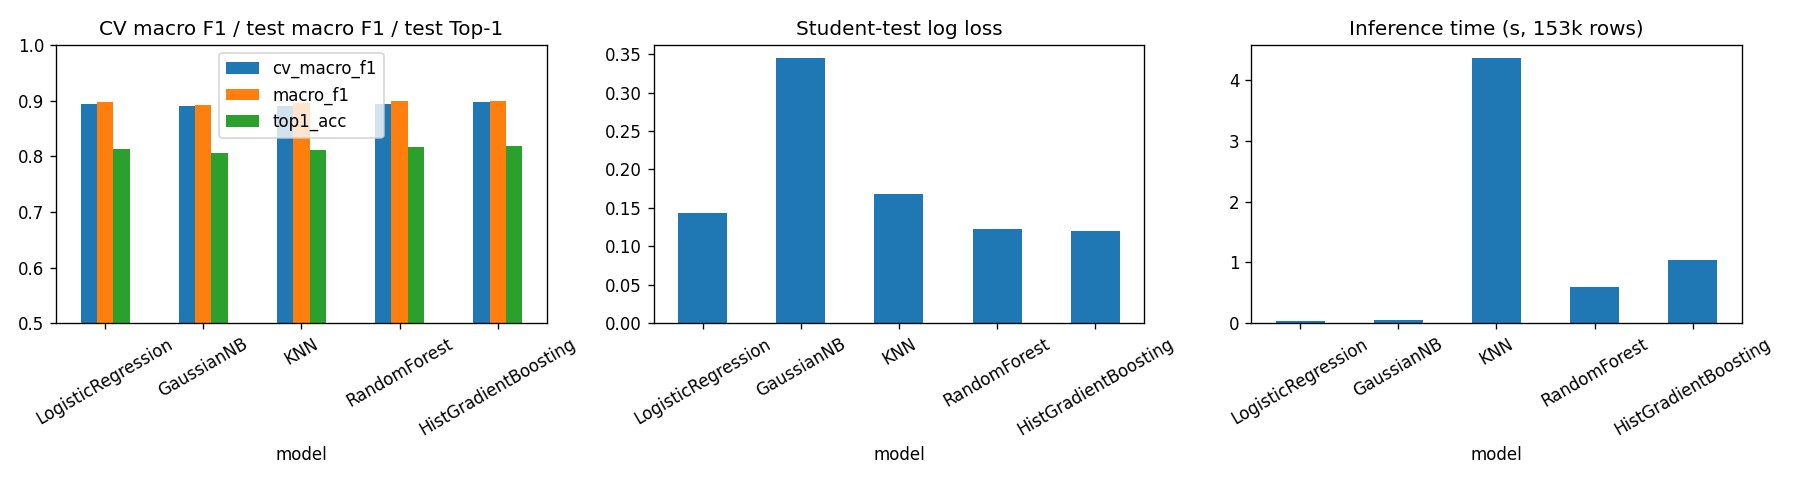
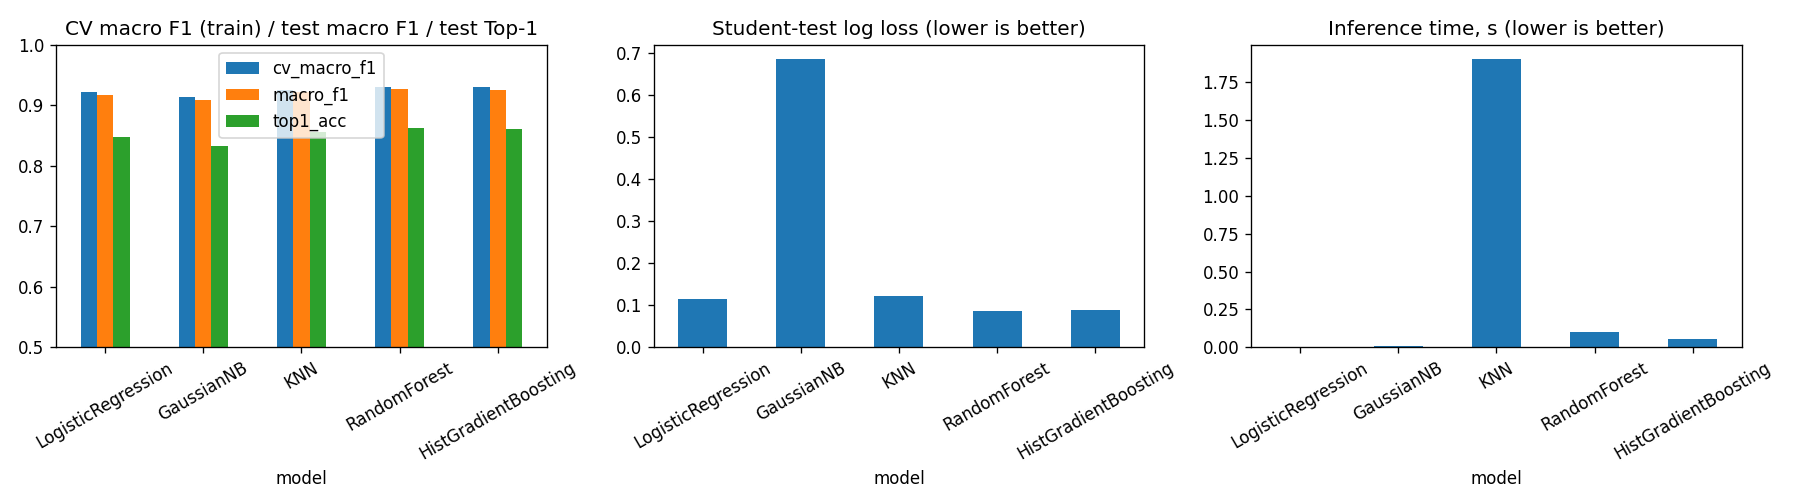
Add Phase 2 model runner and evaluator UI

diff --git a/modelling/train_compare.py b/modelling/train_compare.py
@@ -1,6 +1,6 @@
 """Train 5 models, 3-fold GroupKFold CV on train, evaluate on student_test.
 Output: experiments/model_comparison.csv, experiments/model_comparison.png
-Run: .venv/bin/python modelling/train_compare.py
+Run on its own: .venv/bin/python modelling/train_compare.py   (run_models.py calls these functions)
 """
 import os, sys, time, json
 import pandas as pd
@@ -15,40 +15,59 @@ from sklearn.neighbors import KNeighborsClassifier
 from sklearn.ensemble import RandomForestClassifier, HistGradientBoostingClassifier
 
 sys.path.insert(0, os.path.dirname(os.path.abspath(__file__)))
-from common import ROOT, FEATURES, SEED, load, evaluate, cv_macro_f1
+from common import ROOT, FEATURES, SEED, TRAIN_POINT_STRIDE, load, evaluate, cv_macro_f1
 
 # scaler sits inside the pipeline, so it is fit on training folds only
 MODELS = {
-    "LogisticRegression": ("linear", lambda: make_pipeline(StandardScaler(), LogisticRegression(max_iter=500))),
-    "GaussianNB": ("probabilistic", lambda: make_pipeline(StandardScaler(), GaussianNB())),
-    "KNN": ("instance-based", lambda: make_pipeline(StandardScaler(), KNeighborsClassifier(n_neighbors=25, weights="distance", n_jobs=-1))),
-    "RandomForest": ("bagging ensemble", lambda: RandomForestClassifier(n_estimators=100, min_samples_leaf=5, n_jobs=-1, random_state=SEED)),
-    "HistGradientBoosting": ("boosting", lambda: HistGradientBoostingClassifier(random_state=SEED)),
+    "LogisticRegression": ("linear", "C=1.0, max_iter=500, scaled",
+                           lambda: make_pipeline(StandardScaler(), LogisticRegression(max_iter=500))),
+    "GaussianNB": ("probabilistic", "defaults, scaled",
+                   lambda: make_pipeline(StandardScaler(), GaussianNB())),
+    "KNN": ("instance-based", "k=25, distance-weighted, scaled",
+            lambda: make_pipeline(StandardScaler(), KNeighborsClassifier(n_neighbors=25, weights="distance", n_jobs=-1))),
+    "RandomForest": ("bagging ensemble", "100 trees, min_samples_leaf=5",
+                     lambda: RandomForestClassifier(n_estimators=100, min_samples_leaf=5, n_jobs=-1, random_state=SEED)),
+    "HistGradientBoosting": ("boosting", "sklearn defaults",
+                             lambda: HistGradientBoostingClassifier(random_state=SEED)),
 }
+
+
+def run_one(name, train, test):
+    family, config, make = MODELS[name]
+    cv_mean, cv_std = cv_macro_f1(make, train)
+    t0 = time.time()
+    model = make().fit(train[FEATURES], train.y)
+    train_s = time.time() - t0
+    return {"model": name, "family": family, "config": config,
+            "cv_macro_f1": cv_mean, "cv_macro_f1_std": cv_std, "train_s": train_s, **evaluate(model, test)}
+
+
+def save(rows):
+    df = pd.DataFrame(rows)
+    out = os.path.join(ROOT, "experiments")
+    os.makedirs(out, exist_ok=True)
+    df.to_csv(os.path.join(out, "model_comparison.csv"), index=False)
+    json.dump({"seed": SEED, "features": FEATURES, "cv": "GroupKFold(3) by trip", "train_point_stride": TRAIN_POINT_STRIDE},
+              open(os.path.join(out, "model_comparison_config.json"), "w"), indent=2)
+
+    fig, axes = plt.subplots(1, 3, figsize=(15, 4.2))
+    df.plot.bar(x="model", y=["cv_macro_f1", "macro_f1", "top1_acc"], ax=axes[0], ylim=(0.5, 1), rot=30,
+                title="CV macro F1 (train) / test macro F1 / test Top-1")
+    df.plot.bar(x="model", y="log_loss", ax=axes[1], rot=30, title="Student-test log loss (lower is better)", legend=False)
+    df.plot.bar(x="model", y="inference_s", ax=axes[2], rot=30, title="Inference time, s (lower is better)", legend=False)
+    plt.tight_layout()
+    plt.savefig(os.path.join(out, "model_comparison.png"), dpi=120)
+    plt.close()
+    return df
+
 
 if __name__ == "__main__":
     train, test = load("train"), load("student_test")
     print("train rows", len(train), "test rows", len(test))
     rows = []
-    for name, (family, make) in MODELS.items():
-        cv_mean, cv_std = cv_macro_f1(make, train)
-        t0 = time.time()
-        model = make().fit(train[FEATURES], train.y)
-        train_s = time.time() - t0
-        res = {"model": name, "family": family, "config": str(model.get_params() if name != "LogisticRegression" else "C=1.0, max_iter=500")[:120],
-               "cv_macro_f1": cv_mean, "cv_macro_f1_std": cv_std, "train_s": train_s, **evaluate(model, test)}
+    for name in MODELS:
+        res = run_one(name, train, test)
         rows.append(res)
         print({k: (round(v, 4) if isinstance(v, float) else v) for k, v in res.items() if k != "config"})
-    df = pd.DataFrame(rows)
-    out = os.path.join(ROOT, "experiments")
-    df.to_csv(os.path.join(out, "model_comparison.csv"), index=False)
-    json.dump({"seed": SEED, "features": FEATURES, "cv": "GroupKFold(3) by trip", "train_point_stride": 4}, open(os.path.join(out, "model_comparison_config.json"), "w"), indent=2)
-
-    fig, axes = plt.subplots(1, 3, figsize=(15, 4))
-    df.plot.bar(x="model", y=["cv_macro_f1", "macro_f1", "top1_acc"], ax=axes[0], ylim=(0.5, 1), rot=30,
-                title="CV macro F1 / test macro F1 / test Top-1")
-    df.plot.bar(x="model", y="log_loss", ax=axes[1], rot=30, title="Student-test log loss", legend=False)
-    df.plot.bar(x="model", y="inference_s", ax=axes[2], rot=30, title="Inference time (s, 153k rows)", legend=False)
-    plt.tight_layout()
-    plt.savefig(os.path.join(out, "model_comparison.png"), dpi=120)
+    save(rows)
     print("saved experiments/model_comparison.csv and .png")

diff --git a/run_models.py b/run_models.py
@@ -1,0 +1,99 @@
+"""PART 2 - MODELS: train and compare 5 models, choose one, tune it with Optuna.
+
+Run:  .venv/bin/python run_models.py            (about 2-3 min)
+      .venv/bin/python run_models.py --trials 5  (quicker tuning for a live demo)
+Needs run_data.py to have been run first (it builds data/processed/).
+"""
+import warnings
+# Hide harmless library warnings so the demo output stays readable:
+# - urllib3 complains about the macOS system SSL library (no effect on us)
+# - numpy 2.0 + Apple's maths library print false "overflow in matmul" warnings
+#   during Logistic Regression; the scores are unaffected (checked against Linux runs)
+warnings.filterwarnings("ignore", message=".*urllib3 v2 only supports OpenSSL.*")
+warnings.filterwarnings("ignore", category=RuntimeWarning, message=".*encountered in matmul.*")
+
+import os, sys, argparse
+import pandas as pd
+
+ROOT = os.path.dirname(os.path.abspath(__file__))
+sys.path.insert(0, ROOT)
+sys.path.insert(0, os.path.join(ROOT, "modelling"))
+sys.path.insert(0, os.path.join(ROOT, "tuning"))
+from src.pretty import banner, step, note, table, Timer
+from common import FEATURES, TRAIN_POINT_STRIDE, load, nearest_road_top1
+from train_compare import MODELS, run_one, save
+from tune_optuna import run_search, compare, confusion
+from eda.extra_plots import plot_optuna
+
+ap = argparse.ArgumentParser()
+ap.add_argument("--trials", type=int, default=15, help="number of Optuna trials")
+args = ap.parse_args()
+
+banner("PATHSNAP  |  PART 2: MODEL TRAINING, SELECTION AND TUNING")
+
+# ---------------------------------------------------------------------------
+step(1, "Load the feature tables built in Part 1")
+train, test = load("train"), load("student_test")
+note(f"train       : {train.trip.nunique()} trips, {len(train):,} candidate rows (every {TRAIN_POINT_STRIDE}th GPS point)")
+note(f"student_test: {test.trip.nunique()} trips, {len(test):,} candidate rows (every GPS point)")
+note(f"features    : {', '.join(FEATURES)}")
+note("validation  : 3-fold GroupKFold by trip on train (no trip is in two folds)")
+
+# ---------------------------------------------------------------------------
+step(2, "Baseline with no learning: always pick the nearest road")
+base = nearest_road_top1(test)
+note(f"student_test Top-1 = {base:.4f}  ({100 * base:.1f}% of GPS points matched correctly)")
+
+# ---------------------------------------------------------------------------
+step(3, "Train and compare 5 models from different families")
+rows = []
+for name in MODELS:
+    with Timer(f"{name}") as tm:
+        r = run_one(name, train, test)
+    rows.append(r)
+    note(f"   CV macro F1 {r['cv_macro_f1']:.4f}  |  test Top-1 {r['top1_acc']:.4f}  |  log loss {r['log_loss']:.4f}")
+df = save(rows)
+show = df[["model", "family", "cv_macro_f1", "cv_macro_f1_std", "top1_acc", "macro_f1", "macro_precision",
+           "macro_recall", "log_loss", "route_continuity", "train_s", "inference_s"]]
+print()
+table(show)
+
+# ---------------------------------------------------------------------------
+step(4, "Choose the model (on CV macro F1 from train trips, never on test)")
+# Rule: highest CV macro F1. Differences smaller than TIE (far smaller than the fold-to-fold
+# std, about 0.013 with 9 features) are treated as a tie, broken by faster inference: the API must
+# answer live, and a faster, smaller model is easier to deploy.
+TIE = 0.002
+top = df[df.cv_macro_f1 >= df.cv_macro_f1.max() - TIE]
+best = top.sort_values(["inference_s", "log_loss"]).iloc[0]
+if len(top) > 1:
+    note(f"tie on CV macro F1 (within {TIE}): {', '.join(top.model)} -> broken by inference speed")
+note(f"chosen: {best.model}  (CV macro F1 {best.cv_macro_f1:.4f}, log loss {best.log_loss:.4f})")
+note(f"it also has test Top-1 {best.top1_acc:.4f} vs {base:.4f} for nearest road, and log loss {best.log_loss:.4f}")
+
+# ---------------------------------------------------------------------------
+step(5, f"Bayesian hyperparameter optimisation (Optuna TPE, {args.trials} trials, train CV only)")
+
+
+def on_trial(study, trial):
+    flag = "  <- best so far" if trial.number == study.best_trial.number else ""
+    note(f"trial {trial.number:2d}: CV macro F1 {trial.value:.4f}{flag}")
+
+
+with Timer("search"):
+    study, _ = run_search(train, args.trials, on_trial)
+note("best settings: " + ", ".join(f"{k}={v:.4g}" for k, v in study.best_params.items()))
+
+# ---------------------------------------------------------------------------
+step(6, "Tuned vs untuned (same data, same scores)")
+cmp_df, model = compare(train, test, study.best_params)
+table(cmp_df[["model", "cv_macro_f1", "top1_acc", "macro_f1", "log_loss", "route_continuity", "inference_s"]])
+cm = confusion(model, test)
+note("confusion matrix (student_test candidate rows, top-1 rule):")
+table(pd.DataFrame(cm, index=["true: wrong arc", "true: right arc"], columns=["pred: wrong", "pred: right"]),
+      "{:d}", index=True)
+plot_optuna(ROOT)
+
+banner("PART 2 DONE: model saved to models/hgb_tuned.joblib")
+note("pictures: experiments/model_comparison.png, experiments/confusion_matrix.png, figures/optuna_history.png")
+note("results : experiments/model_comparison.csv, tuned_vs_untuned.csv, optuna_trials.csv")

diff --git a/ui/app.py b/ui/app.py
@@ -1,0 +1,73 @@
+"""PathSnap evaluator UI (runs on Laptop 2, the Linux laptop).
+
+Start:  streamlit run ui/app.py
+Then type the API address of Laptop 1 in the sidebar, e.g. http://192.168.1.23:8000
+The UI only talks to the API. It never reads data files or the model itself.
+"""
+import requests
+import folium
+import streamlit as st
+from streamlit_folium import st_folium
+
+st.set_page_config(page_title="PathSnap", layout="wide")
+st.title("PathSnap: map-matching and route reconstruction")
+
+api = st.sidebar.text_input("API address (Laptop 1)", "http://127.0.0.1:8000").rstrip("/")
+show_clf = st.sidebar.checkbox("Also show classifier-only route", value=False)
+
+try:
+    info = requests.get(f"{api}/datasets", timeout=5).json()
+except Exception:
+    st.sidebar.error(f"Cannot reach the API at {api}")
+    st.stop()
+
+names = info["datasets"]
+dataset = st.sidebar.radio("Dataset", names, index=names.index(info["default"]),
+                           format_func=lambda n: {"evaluator_test": "Evaluator trips",
+                                                  "student_test": "Student-test trips"}.get(n, n))
+trips = requests.get(f"{api}/trips", params={"dataset": dataset}, timeout=5).json()["trips"]
+st.sidebar.success(f"Connected: {len(trips)} trips in {dataset}")
+
+if st.session_state.get("result", {}).get("dataset") not in (None, dataset):
+    st.session_state.pop("result")          # switching dataset clears the old map
+
+trip_id = st.selectbox("Choose a trip", trips)
+if st.button("Reconstruct route", type="primary"):
+    with st.spinner("Sending the trip to the API..."):
+        resp = requests.post(f"{api}/predict", json={"trip_id": trip_id, "dataset": dataset}, timeout=300)
+    if resp.status_code != 200:
+        st.error(resp.text)
+        st.stop()
+    st.session_state["result"] = resp.json()
+
+res = st.session_state.get("result")
+if res:
+    m = res["metrics"]
+    pct = lambda v: "n/a" if v is None else f"{100 * v:.1f}%"
+    c1, c2, c3, c4 = st.columns(4)
+    c1.metric("Accuracy (HMM)", pct(m["top1_hmm"]),
+              None if m["top1_hmm"] is None else f"{100 * (m['top1_hmm'] - m['top1_classifier']):+.1f} pts vs classifier only")
+    c2.metric("Route continuity (HMM)", pct(m["continuity_hmm"]))
+    c3.metric("GPS points", f"{res['n_points']:,}")
+    c4.metric("API time", f"{res['seconds']['total']:.2f} s")
+    st.caption(f"Dataset {res['dataset']}, trip {res['trip_id']}. Classifier only: accuracy {pct(m['top1_classifier'])}, continuity {pct(m['continuity_classifier'])}. "
+               "Accuracy is computed on the API server; the true route never leaves the server.")
+
+    gps = res["gps"]
+    fmap = folium.Map(location=gps[len(gps) // 2], zoom_start=14)
+    pts = folium.FeatureGroup("GPS points (blue)")
+    for p in gps:
+        folium.CircleMarker(p, radius=1.5, color="blue").add_to(pts)
+    pts.add_to(fmap)
+    if show_clf:
+        clf = folium.FeatureGroup("Classifier only (orange)")
+        for line in res["route_classifier"]:
+            folium.PolyLine(line, color="orange", weight=3).add_to(clf)
+        clf.add_to(fmap)
+    hmm = folium.FeatureGroup("Predicted route, HMM (red)")
+    for line in res["route_hmm"]:
+        folium.PolyLine(line, color="red", weight=4).add_to(hmm)
+    hmm.add_to(fmap)
+    folium.LayerControl(collapsed=False).add_to(fmap)
+    fmap.fit_bounds([[min(p[0] for p in gps), min(p[1] for p in gps)], [max(p[0] for p in gps), max(p[1] for p in gps)]])
+    st_folium(fmap, height=560, use_container_width=True, returned_objects=[])
